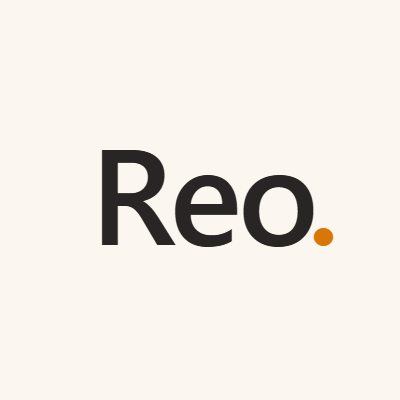
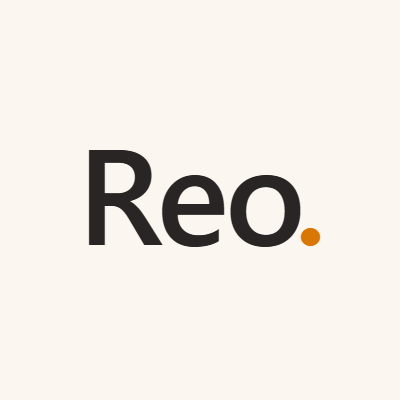
アイコンの水平位置を中央に修正（右寄りを解消）

Changed region(s): [[0.21, 0.36, 0.84, 0.63]]

diff --git a/assets/icon.html b/assets/icon.html
@@ -5,7 +5,7 @@
 </style></head><body>
   <div class="w">
     <svg width="400" height="400" viewBox="0 0 400 400" xmlns="http://www.w3.org/2000/svg">
-      <text x="213" y="245" text-anchor="middle"
+      <text x="200" y="245" text-anchor="middle"
             font-family="system-ui,-apple-system,'Segoe UI','Noto Sans',sans-serif" font-weight="800"
             font-size="136" letter-spacing="-4" fill="#292524">Reo<tspan fill="#d97706" dx="-8">.</tspan></text>
     </svg>
